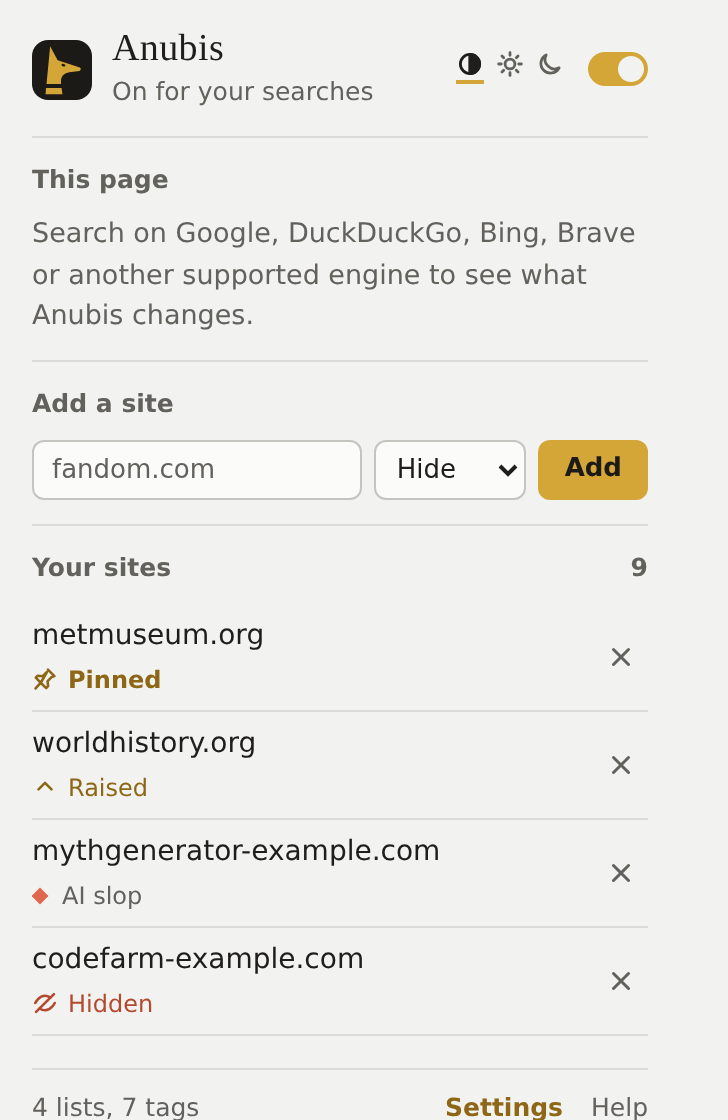
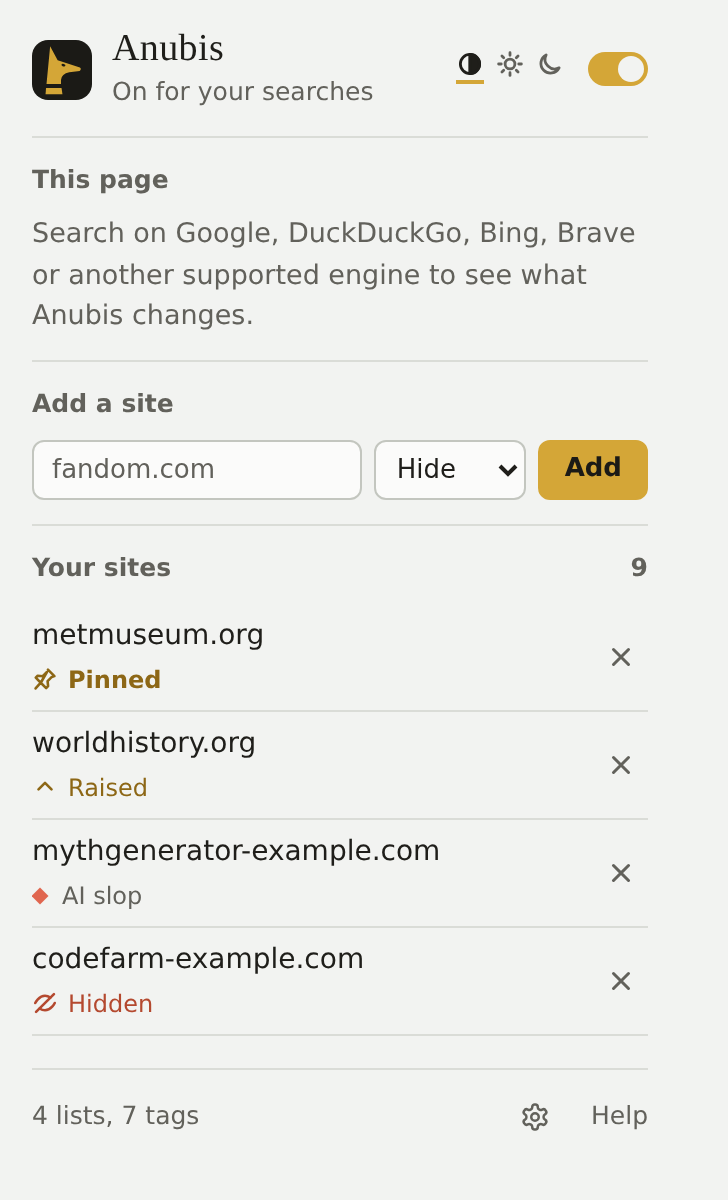
Use a cog for Settings, and remove whole video panels

diff --git a/entrypoints/content/cleanup.ts b/entrypoints/content/cleanup.ts
@@ -27,8 +27,7 @@ const NOT_A_BLOCK = '[data-anubis-result], anubis-summary, header, nav, [role="n
  */
 export function findClutter(engine: EngineDef, results: FoundResult[], wanted: Cleanup): Clutter[] {
   if (!results.length || !Object.values(wanted).some(Boolean)) return [];
-  const lists = new Set<Element>();
-  for (const r of results) if (r.container.parentElement) lists.add(r.container.parentElement);
+  const column = mainColumn(results);
   // The page's own search box: the first one in the page. A follow-up box inside an
   // AI answer comes later and doesn't protect the answer.
   const searchBox = document.querySelector('form[role="search"], textarea[name="q"], input[name="q"], input[type="search"]');
@@ -36,7 +35,7 @@ export function findClutter(engine: EngineDef, results: FoundResult[], wanted: C
   const found: Clutter[] = [];
   const seen = new Set<HTMLElement>();
   const add = (block: HTMLElement | undefined, kind: CleanupKind, uncounted = false) => {
-    if (!block || seen.has(block) || !safeToRemove(block, searchBox)) return;
+    if (!block || seen.has(block) || !safeToRemove(block, column, searchBox)) return;
     seen.add(block);
     found.push({ block, kind, uncounted });
   };
@@ -44,7 +43,7 @@ export function findClutter(engine: EngineDef, results: FoundResult[], wanted: C
   for (const heading of document.querySelectorAll<HTMLElement>(HEADINGS)) {
     if (heading.closest('[data-anubis-result], anubis-summary, header, nav, [role="navigation"], form')) continue;
     const kind = cleanupKindFor(heading.textContent ?? '');
-    if (kind && wanted[kind]) add(blockAround(heading, engine, lists, levelOf(heading)), kind);
+    if (kind && wanted[kind]) add(blockAround(heading, engine, column, levelOf(heading)), kind);
   }
 
   const walker = document.createTreeWalker(document.body, NodeFilter.SHOW_TEXT);
@@ -58,13 +57,13 @@ export function findClutter(engine: EngineDef, results: FoundResult[], wanted: C
     if (!el || el.closest(NOT_A_BLOCK)) continue;
     // A label is the block's title: judge its level like a heading's. A marker sits
     // anywhere in the block, so only the column decides how far it reaches.
-    add(blockAround(el, engine, lists, label ? levelOf(el.closest<HTMLElement>(HEADINGS) ?? el) : undefined), kind);
+    add(blockAround(el, engine, column, label ? levelOf(el.closest<HTMLElement>(HEADINGS) ?? el) : undefined), kind);
   }
 
   for (const [kind, selector] of Object.entries(CLEANUP_SELECTORS[engine.id] ?? {}) as [CleanupKind, string][]) {
     if (!wanted[kind]) continue;
     for (const el of document.querySelectorAll<HTMLElement>(selector)) {
-      if (!el.closest('[data-anubis-result]')) add(blockAround(el, engine, lists) ?? el, kind);
+      if (!el.closest('[data-anubis-result]')) add(blockAround(el, engine, column) ?? el, kind);
     }
   }
 
@@ -81,25 +80,43 @@ export function findClutter(engine: EngineDef, results: FoundResult[], wanted: C
 }
 
 /**
- * The block in the results column holding `start`: climb until the parent is the
- * results list, the engine's results boundary, or an element inside that boundary
- * that also holds results. A heading that never reaches the column (a side panel)
- * isn't touched. Starting from a heading, the climb also stops below a parent with
- * another heading of the same or higher level: the block is one section of a
- * bigger panel ("Images" inside a knowledge panel), not the whole panel.
+ * The main list of results and the results in it. Other results (the videos in a
+ * video panel, which have titles like results) don't protect a block from removal.
  */
-function blockAround(start: HTMLElement, engine: EngineDef, lists: Set<Element>, level?: number): HTMLElement | undefined {
+interface Column {
+  list: Element | undefined;
+  results: HTMLElement[];
+}
+
+function mainColumn(results: FoundResult[]): Column {
+  const counts = new Map<Element, number>();
+  for (const r of results) {
+    const parent = r.container.parentElement;
+    if (parent) counts.set(parent, (counts.get(parent) ?? 0) + 1);
+  }
+  let list: Element | undefined;
+  for (const [parent, n] of counts) if (!list || n > counts.get(list)!) list = parent;
+  return { list, results: results.filter((r) => r.container.parentElement === list).map((r) => r.container) };
+}
+
+/**
+ * The block in the results column holding `start`: climb until the parent is the
+ * main results list, the engine's results boundary, or an element inside that
+ * boundary that also holds main results. A heading that never reaches the column
+ * (a side panel) isn't touched. Starting from a heading, the climb also stops below
+ * a parent with another heading of the same or higher level: the block is one
+ * section of a bigger panel ("Images" inside a knowledge panel), not the whole panel.
+ */
+function blockAround(start: HTMLElement, engine: EngineDef, column: Column, level?: number): HTMLElement | undefined {
   let block = start;
   // The section, once found; the climb goes on to check it's in the column.
   let section: HTMLElement | undefined;
   for (let depth = 0; depth < 30; depth++) {
     const parent = block.parentElement;
     if (!parent || parent === document.body || parent === document.documentElement) return undefined;
-    if (lists.has(parent)) return section ?? block;
-    if (engine.boundary) {
-      if (parent.matches(engine.boundary)) return section ?? block;
-      if (parent.closest(engine.boundary) && parent.querySelector('[data-anubis-result]')) return section ?? block;
-    }
+    if (parent === column.list) return section ?? block;
+    if (engine.boundary && parent.matches(engine.boundary)) return section ?? block;
+    if ((!engine.boundary || parent.closest(engine.boundary)) && column.results.some((r) => parent.contains(r))) return section ?? block;
     if (!section && level !== undefined && hasSiblingSection(parent, block, level)) section = block;
     block = parent;
   }
@@ -115,19 +132,24 @@ function levelOf(heading: HTMLElement): number {
 
 function hasSiblingSection(parent: HTMLElement, block: HTMLElement, level: number): boolean {
   for (const other of parent.querySelectorAll<HTMLElement>(HEADINGS)) {
-    if (block.contains(other) || other.closest('[data-anubis-result]')) continue;
+    // Titles of items in the panel (a video's title in its link) aren't sections.
+    if (block.contains(other) || other.closest('[data-anubis-result], a')) continue;
     if (getComputedStyle(other).display === 'none') continue;
     if (levelOf(other) <= level && (other.textContent ?? '').trim()) return true;
   }
   return false;
 }
 
-/** Never remove results, the page's search box, or Anubis's own summary. */
-function safeToRemove(block: HTMLElement, searchBox: Element | null): boolean {
+/**
+ * Never remove the main results, the page's search box, or Anubis's own summary.
+ * Results inside a panel (its videos) go with the panel.
+ */
+function safeToRemove(block: HTMLElement, column: Column, searchBox: Element | null): boolean {
   return (
     block !== document.body &&
-    !block.closest('[data-anubis-result]') &&
-    !block.querySelector('[data-anubis-result], anubis-summary') &&
+    !column.results.some((r) => r.contains(block) || block.contains(r)) &&
+    !(column.list && block.contains(column.list)) &&
+    !block.querySelector('anubis-summary') &&
     !(searchBox && block.contains(searchBox))
   );
 }

diff --git a/entrypoints/content/index.ts b/entrypoints/content/index.ts
@@ -130,11 +130,28 @@ export default defineContentScript({
         if (!live.has(el)) forget(el);
       }
 
+      // Clean-up: AI answers, video panels and the like. "Show hidden" brings them back too.
+      const clutter = findClutter(engine, results, rules.settings.cleanup);
+      const now = new Set(clutter.map((c) => c.block));
+      for (const el of removed) if (!now.has(el)) unremove(el);
+      removed = now;
+      for (const { block, kind, uncounted } of clutter) {
+        if (block.getAttribute('data-anubis-removed') !== kind) block.setAttribute('data-anubis-removed', kind);
+        block.toggleAttribute('data-anubis-reveal', reveal);
+        if (!uncounted) stats.removed[kind] = (stats.removed[kind] ?? 0) + 1;
+      }
+      // Results inside a removed panel (the videos in a video panel) went with it.
+      const inRemoved = (r: FoundResult) => clutter.some((c) => c.block.contains(r.container));
+
       const scores = new Map<HTMLElement, number>();
       for (const result of results) {
         const verdict = verdictFor(result);
         applyVerdict(result, verdict, theme);
         scores.set(result.container, verdict.hidden ? 0 : verdict.score);
+        if (inRemoved(result)) {
+          stats.total--;
+          continue;
+        }
         if (verdict.hidden) stats.hidden++;
         else if (verdict.level === 'pin') stats.pinned++;
         else if (verdict.level === 'raise') stats.raised++;
@@ -154,17 +171,6 @@ export default defineContentScript({
         const out = !!filter && !verdictFor(result).tags.includes(filter);
         result.container.toggleAttribute('data-anubis-filtered', out);
         for (const row of result.extras) row.toggleAttribute('data-anubis-filtered', out);
-      }
-
-      // Clean-up: AI answers, video panels and the like. "Show hidden" brings them back too.
-      const clutter = findClutter(engine, results, rules.settings.cleanup);
-      const now = new Set(clutter.map((c) => c.block));
-      for (const el of removed) if (!now.has(el)) unremove(el);
-      removed = now;
-      for (const { block, kind, uncounted } of clutter) {
-        if (block.getAttribute('data-anubis-removed') !== kind) block.setAttribute('data-anubis-removed', kind);
-        block.toggleAttribute('data-anubis-reveal', reveal);
-        if (!uncounted) stats.removed[kind] = (stats.removed[kind] ?? 0) + 1;
       }
 
       rerank(results, scores, rules.settings.rerank && !engine.table);

diff --git a/entrypoints/content/ui.ts b/entrypoints/content/ui.ts
@@ -1,7 +1,7 @@
 import { domainChoices, siteOf } from '@/utils/domain';
 import { h, icon } from '@/utils/dom';
 import type { EngineDef } from '@/utils/engines';
-import { ICON_ANUBIS, ICON_CLOSE, ICON_HIDE, ICON_RANK, LEVEL_CHIPS, LEVEL_ICONS, LEVEL_LABELS } from '@/utils/icons';
+import { ICON_ANUBIS, ICON_CLOSE, ICON_GEAR, ICON_HIDE, ICON_RANK, LEVEL_CHIPS, LEVEL_ICONS, LEVEL_LABELS } from '@/utils/icons';
 import type { TagDef } from '@/utils/listformat';
 import { LEVELS, type Level, type TagPref, type Verdict } from '@/utils/matcher';
 import { hiddenCount, type PageStats } from '@/utils/messages';
@@ -408,7 +408,11 @@ export function renderSummary(
             stats.loading ? 'Loading…' : 'Load more results',
           )
         : null,
-      h('button', { class: 'text-btn quiet', type: 'button', title: 'Open Anubis settings', on: { click: actions.settings } }, 'Settings'),
+      h(
+        'button',
+        { class: 'icon-btn', type: 'button', title: 'Anubis settings', attrs: { 'aria-label': 'Anubis settings' }, on: { click: actions.settings } },
+        icon(ICON_GEAR),
+      ),
       // The tags on this page, as a legend you can click to show only that tag.
       stats.tags.length
         ? h(
@@ -759,7 +763,11 @@ function buildPopover(
       'div',
       { class: 'foot' },
       h('span', null, entry ? 'Saved in your list.' : ''),
-      h('button', { class: 'text-btn', type: 'button', on: { click: actions.settings } }, 'Settings'),
+      h(
+        'button',
+        { class: 'icon-btn', type: 'button', title: 'Anubis settings', attrs: { 'aria-label': 'Anubis settings' }, on: { click: actions.settings } },
+        icon(ICON_GEAR),
+      ),
     ),
   );
   return { pop, level: shown };

diff --git a/utils/icons.ts b/utils/icons.ts
@@ -17,6 +17,12 @@ export const ICON_FEATHER = svg('<path d="M13 3C7.5 3.5 4.5 7 4 13"/><path d="M1
 export const ICON_PIN = svg('<path d="M9.8 2.2l4 4-1.6.5-2.6 2.6.3 3.1-1.2 1.2L5.4 10.3 2.2 13.8M5.4 10.3L2.3 7.2l1.2-1.2 3.1.3 2.6-2.6z"/>');
 export const ICON_CLOSE = svg('<path d="M4 4l8 8M12 4l-8 8"/>');
 export const ICON_EXTERNAL = svg('<path d="M9 3h4v4M13 3L7.5 8.5M11.5 9.5V13H3V4.5h3.5"/>');
+/**
+ * Settings: a toothed cog, so it can't be read as a sun. Lucide's "settings" icon
+ * (ISC licence, lucide.dev), on its own 24-unit grid.
+ */
+export const ICON_GEAR = `<svg xmlns="http://www.w3.org/2000/svg" viewBox="0 0 24 24" width="16" height="16" aria-hidden="true" focusable="false" fill="none" stroke="currentColor" stroke-width="2" stroke-linecap="round" stroke-linejoin="round"><path d="M12.22 2h-.44a2 2 0 0 0-2 2v.18a2 2 0 0 1-1 1.73l-.43.25a2 2 0 0 1-2 0l-.15-.08a2 2 0 0 0-2.73.73l-.22.38a2 2 0 0 0 .73 2.73l.15.1a2 2 0 0 1 1 1.72v.51a2 2 0 0 1-1 1.74l-.15.09a2 2 0 0 0-.73 2.73l.22.38a2 2 0 0 0 2.73.73l.15-.08a2 2 0 0 1 2 0l.43.25a2 2 0 0 1 1 1.73V20a2 2 0 0 0 2 2h.44a2 2 0 0 0 2-2v-.18a2 2 0 0 1 1-1.73l.43-.25a2 2 0 0 1 2 0l.15.08a2 2 0 0 0 2.73-.73l.22-.39a2 2 0 0 0-.73-2.73l-.15-.08a2 2 0 0 1-1-1.74v-.5a2 2 0 0 1 1-1.74l.15-.09a2 2 0 0 0 .73-2.73l-.22-.38a2 2 0 0 0-2.73-.73l-.15.08a2 2 0 0 1-2 0l-.43-.25a2 2 0 0 1-1-1.73V4a2 2 0 0 0-2-2z"/><circle cx="12" cy="12" r="3"/></svg>`;
+
 /** The button on each result: move this site up or down (or out). */
 export const ICON_RANK = svg('<path d="M5 13V3M2.5 5.5L5 3l2.5 2.5M11 3v10M8.5 10.5L11 13l2.5-2.5"/>');
 export const ICON_SUN = svg(

diff --git a/entrypoints/popup/main.ts b/entrypoints/popup/main.ts
@@ -6,7 +6,7 @@ import { engineFor } from '@/utils/engines';
 import { guide } from '@/utils/links';
 import { LEVELS } from '@/utils/matcher';
 import { h, icon } from '@/utils/dom';
-import { ICON_CLOSE, LEVEL_CHIPS, LEVEL_ICONS, LEVEL_LABELS } from '@/utils/icons';
+import { ICON_CLOSE, ICON_GEAR, LEVEL_CHIPS, LEVEL_ICONS, LEVEL_LABELS } from '@/utils/icons';
 import { hiddenCount, send, sendToActiveTab, type PageStats } from '@/utils/messages';
 import { getSite, listSites, setSite, setSiteLevel, type PersonalLevel } from '@/utils/personal';
 import { loadRuleSet, watchRuleSet } from '@/utils/ruleset';
@@ -183,6 +183,7 @@ $<HTMLFormElement>('#add-form').addEventListener('submit', async (e) => {
 
 enabled.addEventListener('change', () => void updateSettings({ enabled: enabled.checked }));
 $<HTMLAnchorElement>('#help').href = guide();
+$('#settings').append(icon(ICON_GEAR));
 $('#settings').addEventListener('click', () => {
   void send({ type: 'open-options' });
   window.close();

diff --git a/entrypoints/content/results.ts b/entrypoints/content/results.ts
@@ -65,7 +65,9 @@ function findStructural(engine: EngineDef, root: Document): FoundResult[] {
     if (seen.has(container)) continue;
     const url = resolveUrl(link, container, engine);
     if (!url) continue;
-    container = widenPastSitelinks(container, siteOfUrl(url), engine, root);
+    // Only a result that shows its address has sitelinks. Without that check, the
+    // first video in a video panel took in the others and the panel's heading.
+    if (container.querySelector(engine.displayed ?? 'cite')) container = widenPastSitelinks(container, siteOfUrl(url), engine, root);
     seen.add(container);
     previous = container;
     out.push(build(container, link, titleBlockFor(title, link, container), url, title, []));

diff --git a/entrypoints/content/shadow.css b/entrypoints/content/shadow.css
@@ -56,14 +56,6 @@ button {
   text-decoration: underline;
   text-underline-offset: 3px;
 }
-/* Secondary actions: readable, but quieter than the ones that change the page. */
-.text-btn.quiet {
-  color: var(--muted);
-  font-weight: 500;
-}
-.text-btn.quiet:hover {
-  color: var(--ink);
-}
 .text-btn:disabled {
   color: var(--muted);
   cursor: progress;
@@ -480,7 +472,7 @@ select.domain option {
 }
 .foot {
   display: flex;
-  align-items: baseline;
+  align-items: center;
   justify-content: space-between;
   gap: 12px;
   margin-top: 14px;

diff --git a/entrypoints/popup/index.html b/entrypoints/popup/index.html
@@ -49,7 +49,7 @@
     <footer>
       <span id="lists-summary" class="muted"></span>
       <span class="spacer"></span>
-      <button id="settings" class="text-btn" type="button">Settings</button>
+      <button id="settings" class="icon-btn" type="button" title="Anubis settings" aria-label="Anubis settings"></button>
       <a id="help" href="https://bishop-v.github.io/anubis/" target="_blank" rel="noopener noreferrer" title="Open the user guide">Help</a>
     </footer>
     <script type="module" src="./main.ts"></script>

diff --git a/docs/experiments.md b/docs/experiments.md
@@ -40,6 +40,7 @@ Feedback from use: "weigh" was too ambiguous for the functions people rely on ("
 
 - **Inspiration:** Scott Jenson's talk "Are we really going to use the same Desktop UX forever?" (KDE Akademy 2026) treats UX as layers (style, structure, strategy, technology) and argues for tools shaped around the task in front of you rather than around the software. Here the style layer (the Egyptian theme) had leaked into the structure layer (the names of functions). The `ux-heuristics` skill (Krug's *Don't Make Me Think*, Nielsen's heuristics) was installed in `.claude/skills/` for the review. It flags this exact pattern: clever names lose to clear names, and icons without labels make people guess ("mystery meat navigation").
 - **Changed:** "Weigh deeper" is now "Load more results" (and "Loading…"), and "Look deeper automatically" is "Load more results automatically". "Weigh a site" is "Add a site". The per-site choice is called its *ranking* everywhere (Hide, Lower, Normal, Raise, Pin). The button on each result shows up and down arrows with the label "Hide, rank or tag this site". The summary's gear is now a text button, "Settings". The fallback summary "Anubis weighed 9 results" is now "Anubis left all 9 results as they were".
+- **Later:** the Settings buttons (in the summary, the result menu and the popup) went back to an icon on request, this time a toothed cog (Lucide's "settings" icon) rather than the earlier circle with rays, which read as a sun. A cog is one of the few icons almost everyone recognises; each has a label for screen readers and a tooltip.
 - **Kept:** the balance and cartouche in the menu, the logo as the summary's mark (it says the line comes from Anubis), and the myth in the README.
 - **Considered:** a "⋯" button for the result menu. Rejected because Google and DuckDuckGo already put their own "⋮" menu on each result, and two lookalike menus would be confusing.
 - Also considered: Vercel's `web-design-guidelines` skill. Not installed, because it downloads its rules from the network on every run.
@@ -53,6 +54,7 @@ Asked for: a global option to force-remove AI answers (Gemini's AI Overview, Duc
 - **Forcing it:** removing an element after the engine renders it can always be outrun by a redesign, so the switches that stop AI answers at the source are used too. "AI answers" sends DuckDuckGo searches to `noai.duckduckgo.com`, DuckDuckGo's own no-AI version, which has no Search Assist or Duck.ai. For Google, "Always open the Web tab" adds `udm=14`, Google's own filter for plain web links (the Web tab under More). It's a separate switch because it also drops everything else that isn't a link. Choosing All from the Web tab is remembered for that search in the tab's `sessionStorage`, so it isn't bounced straight back.
 - **Not used:** a `noai=1` URL parameter for DuckDuckGo, mentioned by one blog but not in DuckDuckGo's documented parameters (`duckduckgo-help-pages/_docs/settings/params.md`). Brave's `summary=0` parameter, which Brave community threads report no longer works. A `declarativeNetRequest` rule that rewrites Google URLs before the page loads: it's faster, but it needs a new permission, and the redirect from the content script is quick enough.
 - **Bug found in use:** "AI answers" didn't remove Google's AI Overview. Only heading elements were read as labels, but the label can be a plain `div` beside an icon, and an icon's `<title>` adds text that breaks an exact match. The guard against removing the search box also refused any block with a `q` field, which a follow-up box inside the Overview may have. Now any short text node that is a label counts, as does text only an AI answer has ("AI responses may include mistakes"), selectors from community filter lists (`.M8OgIe`, `.YzCcne`) back them up, and only the page's first search box is protected. An `aiLabel` Google mock covers this; the previous build removes nothing on it. Google's real markup is still unconfirmed; the troubleshooting page asks for its structure (tags, classes and roles, no text).
+- **Bug found in use:** "Videos" removed only the heading above a video panel. Each video has a title heading in a link, so Anubis took the videos for results, and clean-up refused to remove a block containing results. Worse, the sitelink rule merged the videos into one "result" (they share a site), which swallowed the panel's heading too. Now only the main list of results (the list holding the most) is protected, results inside a removed panel go with it and leave the summary's counts, and sitelinks are only merged under a result that shows its address, which videos don't. The `aiLabel` Google mock has such a panel; the previous build leaves it in place.
 - **Visible and undoable:** the summary names what was removed ("…and removed an AI answer and a video panel"), and "Show hidden" brings removed blocks back on that page, marked with a dashed outline. The AI Mode tab is removed but not counted, since it isn't content.
 
 ## Toolbar icon when off

diff --git a/CLAUDE.md b/CLAUDE.md
@@ -69,7 +69,7 @@ Everything on search pages was built against the mocks in `e2e/fixtures.mjs`: th
 
 - Keep the brand colours: background `#1b1a16`, gold `#d4a637`.
 - Design follows `.claude/skills/frontend-design`: on search pages stay quiet (the page's font, muted text, no fills); the result menu's cartouche and balance are the one flourish. Sentence case, no ALL-CAPS labels, no "·"-joined meta strings.
-- Wording and interaction follow `.claude/skills/ux-heuristics` (Krug and Nielsen). Labels say what happens in plain words ("Load more results", "Settings", "Hide, rank or tag this site"); the Anubis motif stays in the logo, the summary's mark and the menu's balance, never in the name of a function. One word per concept: a site's *ranking* is Hide, Lower, Normal, Raise or Pin. Prefer a text button to an icon whose meaning has to be guessed, and give every icon-only button a label.
+- Wording and interaction follow `.claude/skills/ux-heuristics` (Krug and Nielsen). Labels say what happens in plain words ("Load more results", "Hide, rank or tag this site"); the Anubis motif stays in the logo, the summary's mark and the menu's balance, never in the name of a function. One word per concept: a site's *ranking* is Hide, Lower, Normal, Raise or Pin. Use an icon only where it's universally understood (the toothed cog, `ICON_GEAR`, for settings; × to close), otherwise a text button, and give every icon-only button an `aria-label` and a tooltip.
 - Nothing is hidden or removed without a trace: the summary says what Anubis did, and "Show hidden" undoes it for the page.
 - Ask for as few permissions as possible. Only add a permission the feature actually needs.
 - Verify changes by type-checking, `npm test`, building both browsers, and loading the extension. Search pages can only be checked for real in a browser; `npm run e2e` covers the logic against mocks.
